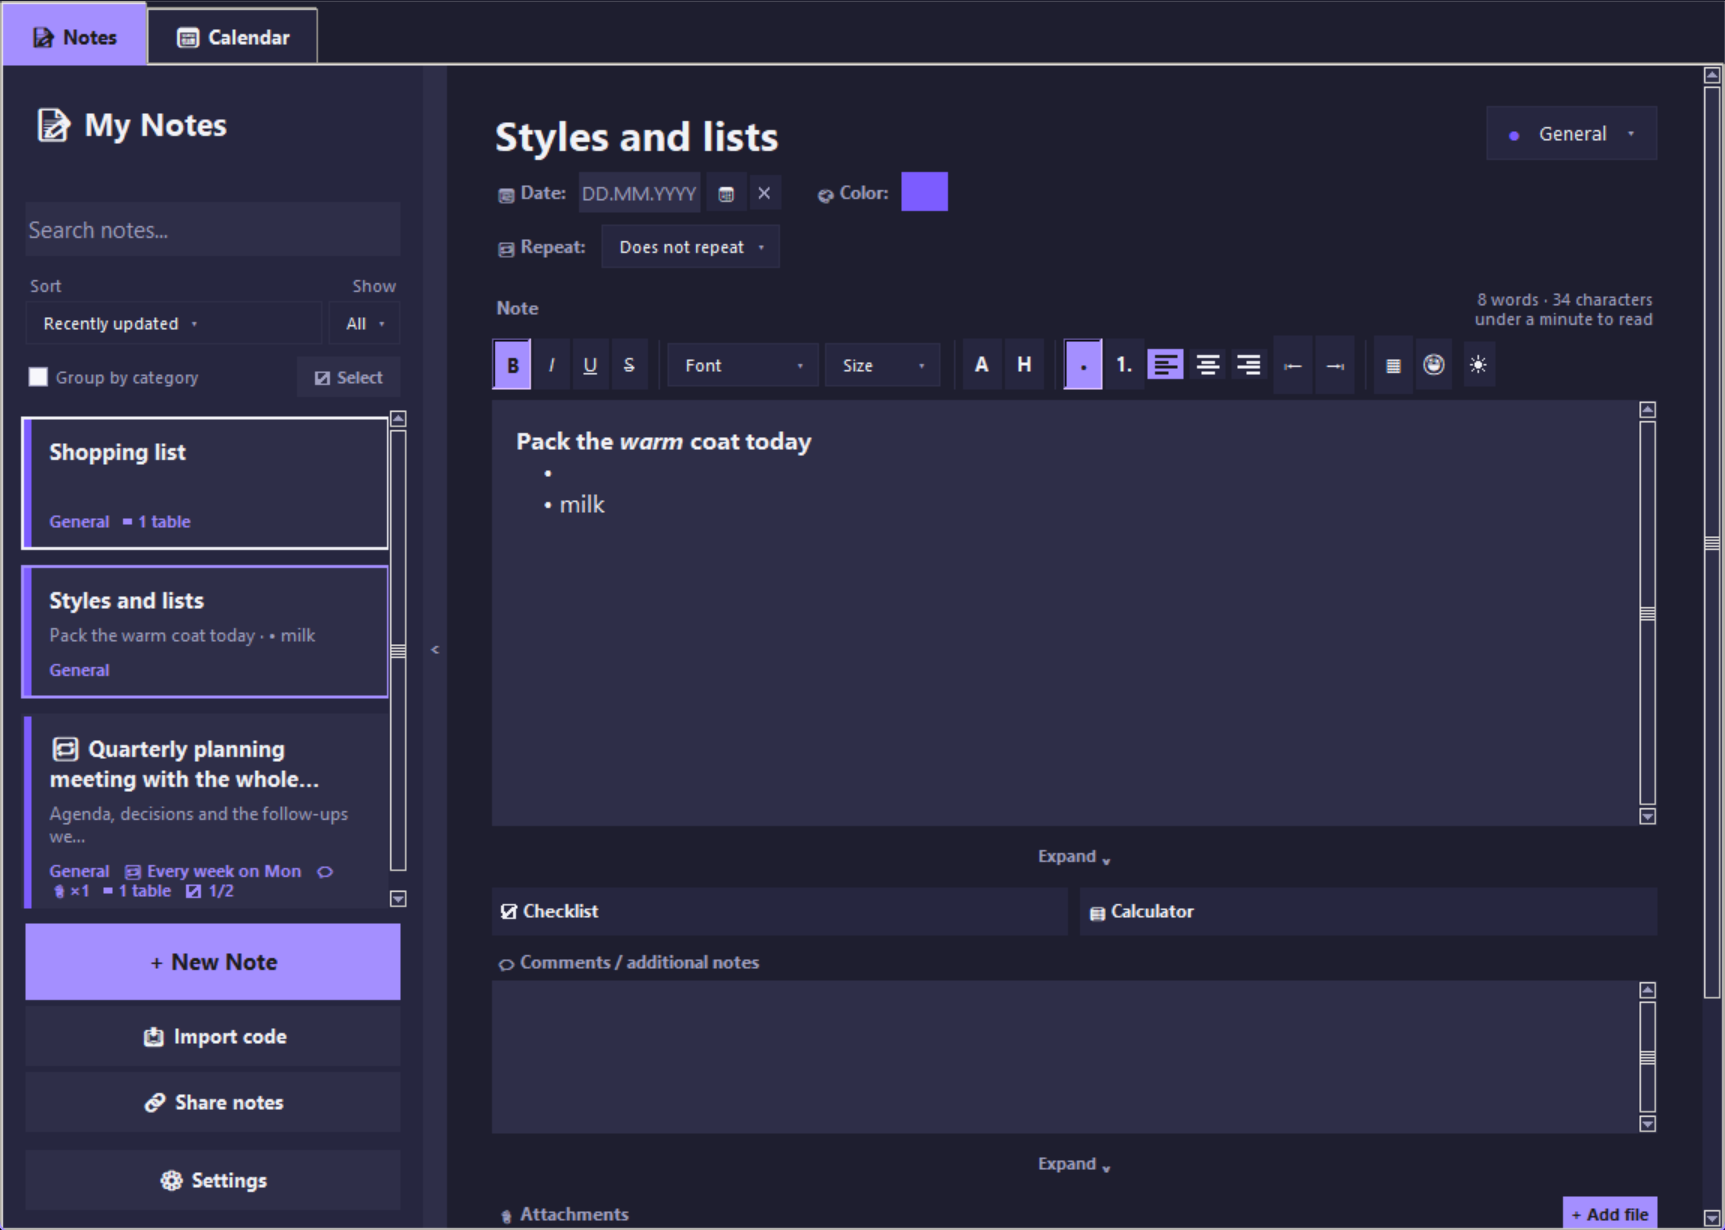
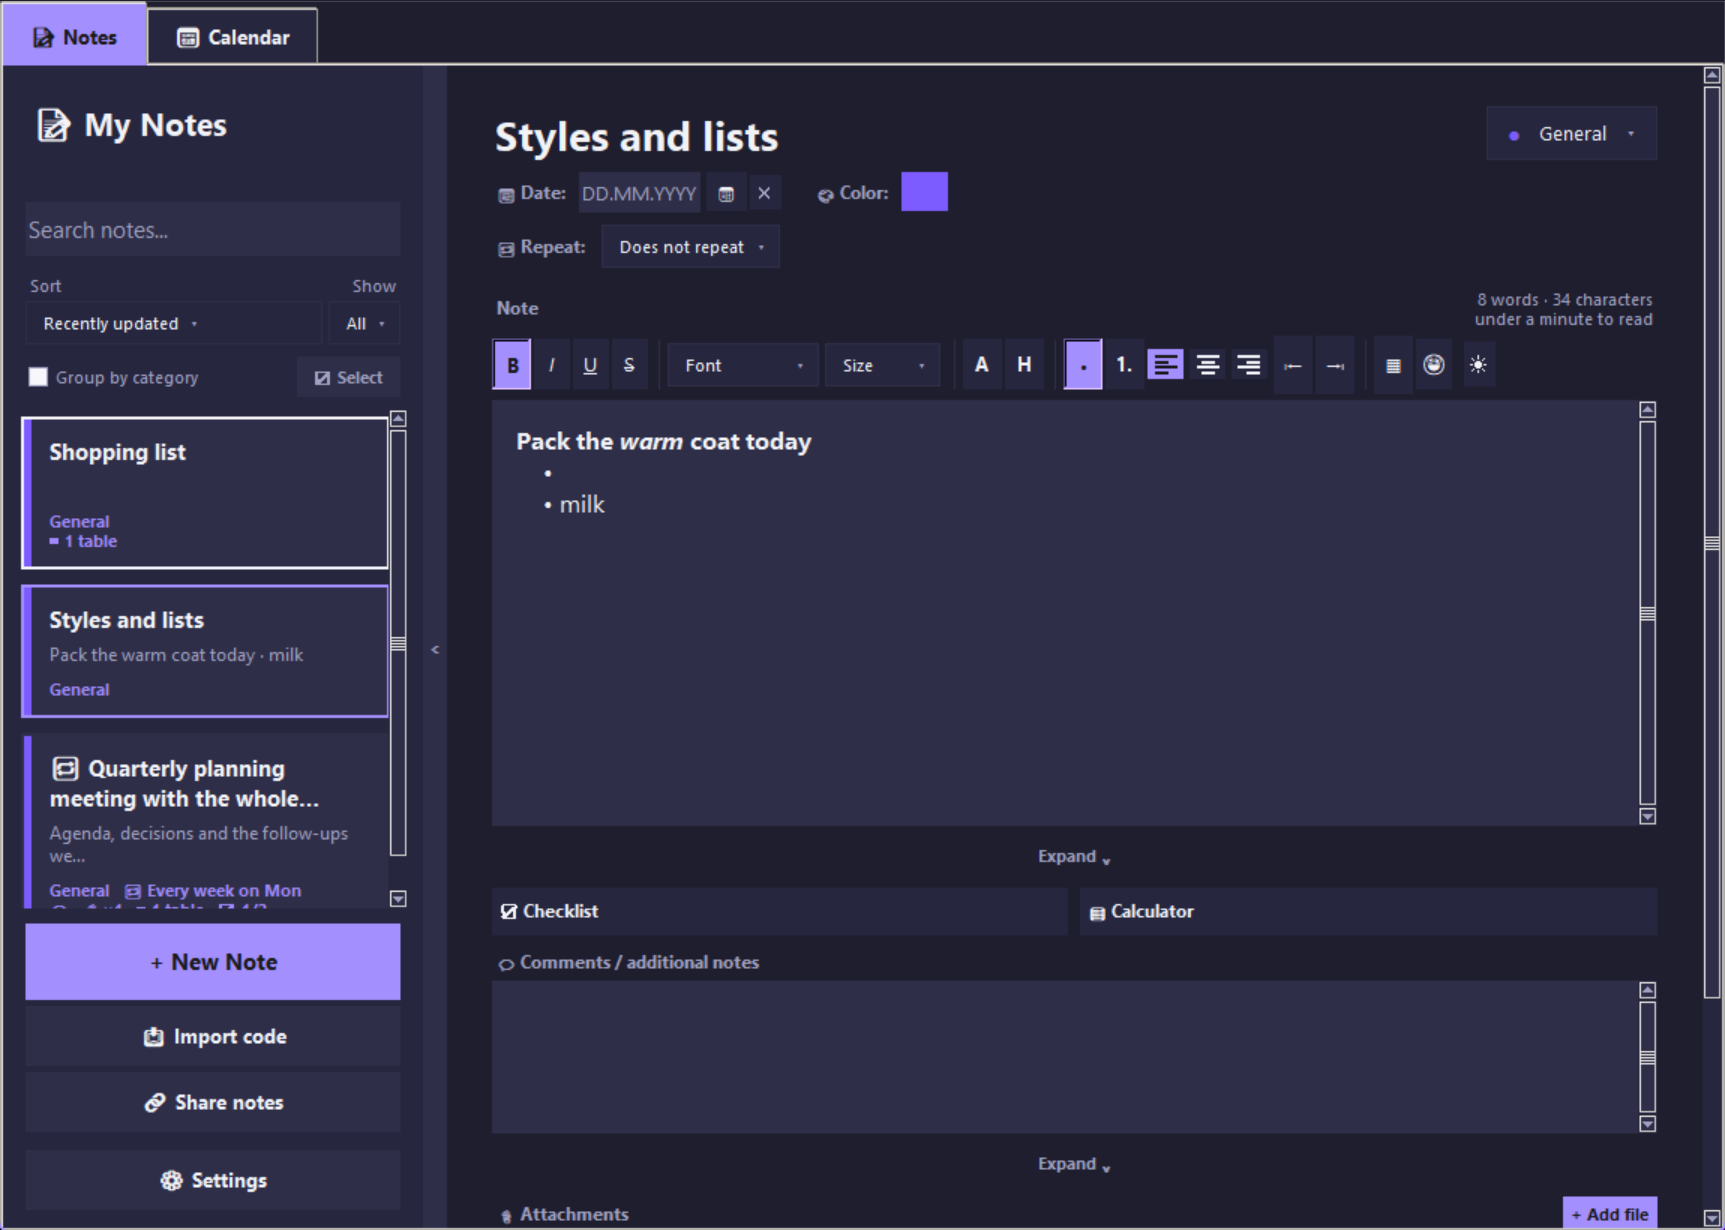
note list: a card's tags sit on two fixed lines, and no sign is split
A card's tags were one run of up to nine signs, wrapped wherever the room
ended: "▦ 1" on one line and "table" on the next, "1/2" alone below. The
final audit's panel found it crowded (its designer); the owner chose, of
four shown to her on 11 Nov, two lines in fixed places: when the note
belongs (category, then its date, or its repeat with ✕ and ✎), then what
it holds (💬 📎 ▦ ☑), the second only when there is any.

A sign's own spaces are U+00A0, written "\xa0": a probe on this Tk read
back where each wrapped line starts and found it breaks a plain space
inside "📅 15.09.2026" and "▦ 1 table", and never U+00A0. A long category
name or repeat rule still wraps between its own words.

qa1: "the tags are two lines: when, then what the note holds" on the
fullest card; qa1, qa5 and qa7 read each sign with its U+00A0. Mutants
RF10 (one line) and RF11 (breakable spaces) KILLED. story_look: the 17
scenes whose list shows such a card retaken and looked at; each change is
the card's tags and nothing else.

Changed region(s): [[0.0, 0.4016, 0.2458, 0.7415]]

diff --git a/noteorganizer/ui/note_list.py b/noteorganizer/ui/note_list.py
@@ -2022,27 +2022,35 @@ class NoteListMixin:
         # A glimpse, not a width: the drawing wraps it to the card.
         preview = core_tables.glimpse(preview_src, self.CARD_PREVIEW_CHARS)
 
-        tags_text = note_category
+        # Two lines in fixed places (the owner's choice, 2026-11-11): when the
+        # note belongs, then what it holds. A sign's own spaces are U+00A0,
+        # which Tk never breaks at: "▦ 1" and "table" fell on two lines.
+        nb = "\xa0"
+        when = [note_category]
         if is_recurring(note):
-            tags_text += f"   🔁 {describe_recurrence(note)}"
+            when.append(f"🔁{nb}{describe_recurrence(note)}")
             if note.get("exceptions"):
-                tags_text += f"   ✕{len(note['exceptions'])}"
+                when.append(f"✕{len(note['exceptions'])}")
             if note.get("overrides"):
-                tags_text += f"   ✎{len(note['overrides'])}"
+                when.append(f"✎{len(note['overrides'])}")
         elif note.get("date"):
-            tags_text += f"   📅 {show_date(note['date'])}"
+            when.append(f"📅{nb}{show_date(note['date'])}")
+        holds = []
         if note.get("comments"):
-            tags_text += "   💬"
+            holds.append("💬")
         if note.get("attachments"):
-            tags_text += f"   📎×{len(note['attachments'])}"
+            holds.append(f"📎×{len(note['attachments'])}")
         if table_count:
-            tags_text += ("   ▦ 1 table" if table_count == 1
-                          else f"   ▦ {table_count} tables")
+            holds.append(f"▦{nb}1{nb}table" if table_count == 1
+                         else f"▦{nb}{table_count}{nb}tables")
         checklist = note.get("checklist") or []
         if isinstance(checklist, list) and checklist:
             done = sum(1 for it in checklist
                        if isinstance(it, dict) and it.get("done"))
-            tags_text += f"   ☑ {done}/{len(checklist)}"
+            holds.append(f"☑{nb}{done}/{len(checklist)}")
+        tags_text = "   ".join(when)
+        if holds:
+            tags_text += "\n" + "   ".join(holds)
         # The stripe wears the colour whole; the tags row's words a shade of
         # it that reads on the card (a pale yellow was 1.6:1 on white).
         words = legible_on(color, self.colors["card"], self.colors["text"])

diff --git a/qa/qa1.py b/qa/qa1.py
@@ -6807,7 +6807,7 @@ check('a card previews the words, not the pipe rows',
       '|' not in _cardT['preview']
       and 'readable words' in _cardT['preview'])
 check('the card tags row counts the table',
-      '\u25a6 1 table' in _cardT['tags'])
+      '\u25a6\u00a01\u00a0table' in _cardT['tags'])
 
 # ---- A NEW TABLE UNDER AN OLD ONE STAYS A TABLE OF ITS OWN ----
 # Two adjacent runs of pipe rows read as one block, so a table created
@@ -13445,7 +13445,15 @@ _ov_tags = _ov_card['tags'] if _ov_card is not None else ''
 check('...and the checklist progress is whole, not a clipped "1/"',
       '1/2' in _ov_tags)
 check('...with the table mark and the attachment count still there',
-      '1 table' in _ov_tags and chr(0x00D7) + '1' in _ov_tags)
+      '1\xa0table' in _ov_tags and chr(0x00D7) + '1' in _ov_tags)
+# Two lines in fixed places (the owner's choice, 2026-11-11): when the note
+# belongs, then what it holds; the wrap fell anywhere, "1/2" alone below.
+_ov_lines = _ov_tags.split('\n')
+check(f'the tags are two lines: when, then what the note holds ({_ov_lines!r})',
+      len(_ov_lines) == 2 and _ov_lines[0].startswith('General')
+      and '\U0001F501\xa0' in _ov_lines[0]
+      and all(s in _ov_lines[1] for s in ('\U0001F4AC', '\U0001F4CE\xd71',
+                                          '\U000025a6\xa01\xa0table', '\U00002611\xa01/2')))
 
 app.notes = []
 app.trash = []

diff --git a/qa/qa7.py b/qa/qa7.py
@@ -358,7 +358,7 @@ _card_says = app._card_texts(NO.normalize_note(
 check(f'a card shows the words without the table, a row typed past its last '
       f'cell included ({_card_says["preview"]!r} / {_card_says["tags"]!r})',
       '|' not in _card_says['preview'] and 'Words' in _card_says['preview']
-      and '▦ 1 table' in _card_says['tags'])
+      and '\U000025a6\xa01\xa0table' in _card_says['tags'])
 # A card keeps a note's lines apart, empty ones left out: run together, two
 # lines read as one sentence.
 _card_lines = app._card_texts(NO.normalize_note(

diff --git a/qa/qa5.py b/qa/qa5.py
@@ -816,7 +816,7 @@ check('a dated note shows its date day first, and opens clean',
       app.date_entry.get() == '17.10.2026'
       and app.editor_state_matches_saved(app.capture_editor_state()))
 check('...and its card says it day first too',
-      '\U0001F4C5 17.10.2026' in app._card_texts(app.find_note(1))['tags'])
+      '\U0001F4C5\xa017.10.2026' in app._card_texts(app.find_note(1))['tags'])
 _w_stored = []
 for _w_form in ('16.11.2026', '16/11/2026', '16 nov 2026',
                 '16 noiembrie 2026', 'November 16, 2026', '2026-11-16'):
